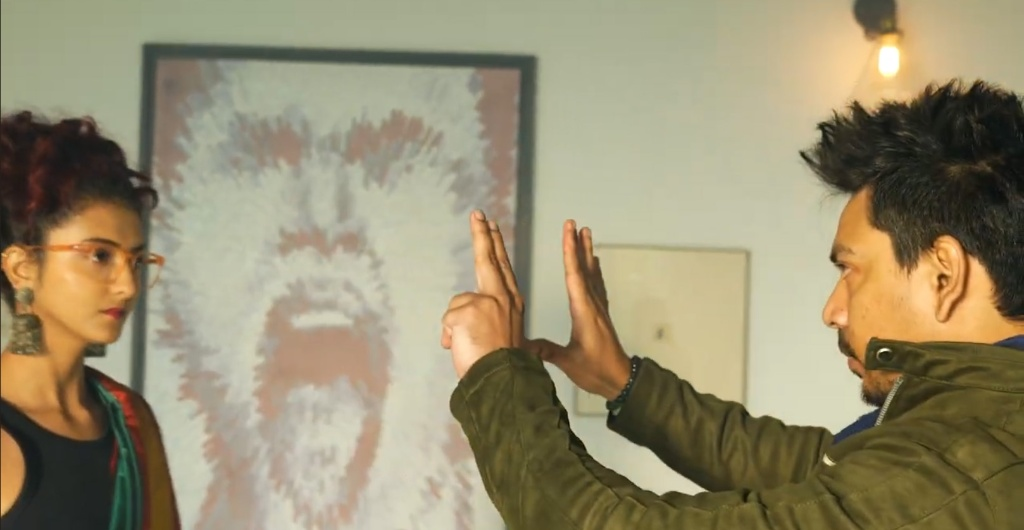
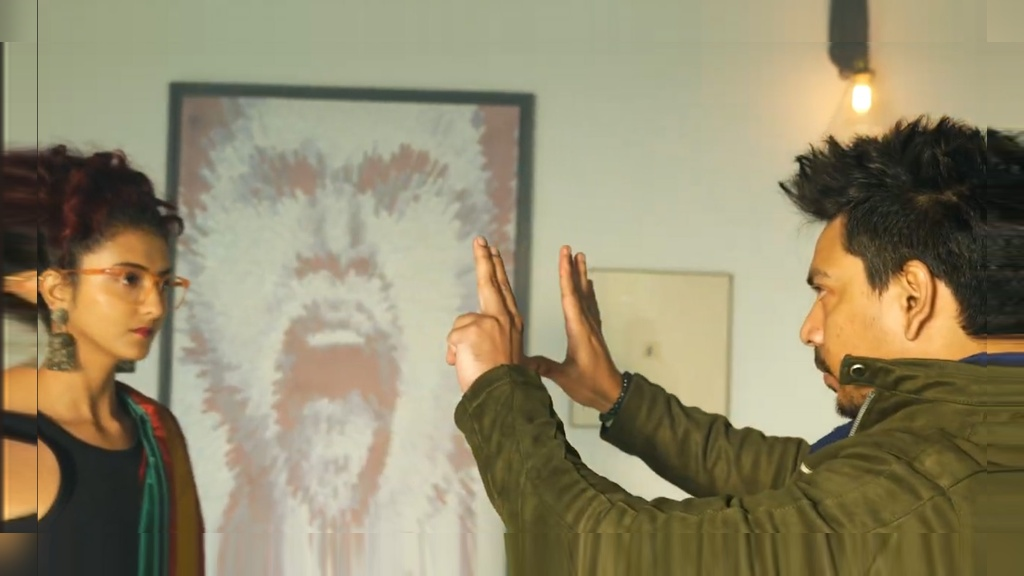
fix(about): zoom out Creative Consulting image and set 16:9 aspect ratio to display both characters fully

diff --git a/404.html b/404.html
@@ -10,7 +10,7 @@
 <link rel="preconnect" href="https://fonts.googleapis.com">
 <link rel="preconnect" href="https://fonts.gstatic.com" crossorigin>
 <link href="https://fonts.googleapis.com/css2?family=Caveat:wght@500;600&family=DM+Serif+Display:ital@0;1&family=Inter:wght@300;400;500;600;700&display=swap" rel="stylesheet">
-<link rel="stylesheet" href="/assets/css/anava.css?v=d7754cd63a">
+<link rel="stylesheet" href="/assets/css/anava.css?v=73a6066a55">
 <script>document.documentElement.classList.add('m-js');try{if(sessionStorage.getItem('anavaPT')){sessionStorage.removeItem('anavaPT');document.documentElement.classList.add('pt-in')}}catch(e){}</script>
 <script defer src="/assets/js/anava.js?v=c74d99df4b"></script>
 <script defer src="/assets/js/vendor/gsap.min.js?v=3.12.5"></script>

diff --git a/about.html b/about.html
@@ -17,7 +17,7 @@
 <link rel="preconnect" href="https://fonts.googleapis.com">
 <link rel="preconnect" href="https://fonts.gstatic.com" crossorigin>
 <link href="https://fonts.googleapis.com/css2?family=Caveat:wght@500;600&family=DM+Serif+Display:ital@0;1&family=Inter:wght@300;400;500;600;700&display=swap" rel="stylesheet">
-<link rel="stylesheet" href="assets/css/anava.css?v=d7754cd63a">
+<link rel="stylesheet" href="assets/css/anava.css?v=73a6066a55">
 <script>document.documentElement.classList.add('m-js');try{if(sessionStorage.getItem('anavaPT')){sessionStorage.removeItem('anavaPT');document.documentElement.classList.add('pt-in')}}catch(e){}</script>
 <script defer src="assets/js/anava.js?v=c74d99df4b"></script>
 <script defer src="assets/js/vendor/gsap.min.js?v=3.12.5"></script>

diff --git a/contact.html b/contact.html
@@ -17,7 +17,7 @@
 <link rel="preconnect" href="https://fonts.googleapis.com">
 <link rel="preconnect" href="https://fonts.gstatic.com" crossorigin>
 <link href="https://fonts.googleapis.com/css2?family=Caveat:wght@500;600&family=DM+Serif+Display:ital@0;1&family=Inter:wght@300;400;500;600;700&display=swap" rel="stylesheet">
-<link rel="stylesheet" href="assets/css/anava.css?v=d7754cd63a">
+<link rel="stylesheet" href="assets/css/anava.css?v=73a6066a55">
 <script>document.documentElement.classList.add('m-js');try{if(sessionStorage.getItem('anavaPT')){sessionStorage.removeItem('anavaPT');document.documentElement.classList.add('pt-in')}}catch(e){}</script>
 <script defer src="assets/js/anava.js?v=c74d99df4b"></script>
 <script defer src="assets/js/vendor/gsap.min.js?v=3.12.5"></script>

diff --git a/index.html b/index.html
@@ -17,7 +17,7 @@
 <link rel="preconnect" href="https://fonts.googleapis.com">
 <link rel="preconnect" href="https://fonts.gstatic.com" crossorigin>
 <link href="https://fonts.googleapis.com/css2?family=Caveat:wght@500;600&family=DM+Serif+Display:ital@0;1&family=Inter:wght@300;400;500;600;700&display=swap" rel="stylesheet">
-<link rel="stylesheet" href="assets/css/anava.css?v=d7754cd63a">
+<link rel="stylesheet" href="assets/css/anava.css?v=73a6066a55">
 <script>document.documentElement.classList.add('m-js');try{if(sessionStorage.getItem('anavaPT')){sessionStorage.removeItem('anavaPT');document.documentElement.classList.add('pt-in')}}catch(e){}</script>
 <script defer src="assets/js/anava.js?v=c74d99df4b"></script>
 <script defer src="assets/js/vendor/gsap.min.js?v=3.12.5"></script>

diff --git a/process.html b/process.html
@@ -17,7 +17,7 @@
 <link rel="preconnect" href="https://fonts.googleapis.com">
 <link rel="preconnect" href="https://fonts.gstatic.com" crossorigin>
 <link href="https://fonts.googleapis.com/css2?family=Caveat:wght@500;600&family=DM+Serif+Display:ital@0;1&family=Inter:wght@300;400;500;600;700&display=swap" rel="stylesheet">
-<link rel="stylesheet" href="assets/css/anava.css?v=d7754cd63a">
+<link rel="stylesheet" href="assets/css/anava.css?v=73a6066a55">
 <script>document.documentElement.classList.add('m-js');try{if(sessionStorage.getItem('anavaPT')){sessionStorage.removeItem('anavaPT');document.documentElement.classList.add('pt-in')}}catch(e){}</script>
 <script defer src="assets/js/anava.js?v=c74d99df4b"></script>
 <script defer src="assets/js/vendor/gsap.min.js?v=3.12.5"></script>

diff --git a/work.html b/work.html
@@ -17,7 +17,7 @@
 <link rel="preconnect" href="https://fonts.googleapis.com">
 <link rel="preconnect" href="https://fonts.gstatic.com" crossorigin>
 <link href="https://fonts.googleapis.com/css2?family=Caveat:wght@500;600&family=DM+Serif+Display:ital@0;1&family=Inter:wght@300;400;500;600;700&display=swap" rel="stylesheet">
-<link rel="stylesheet" href="assets/css/anava.css?v=d7754cd63a">
+<link rel="stylesheet" href="assets/css/anava.css?v=73a6066a55">
 <script>document.documentElement.classList.add('m-js');try{if(sessionStorage.getItem('anavaPT')){sessionStorage.removeItem('anavaPT');document.documentElement.classList.add('pt-in')}}catch(e){}</script>
 <script defer src="assets/js/anava.js?v=c74d99df4b"></script>
 <script defer src="assets/js/vendor/gsap.min.js?v=3.12.5"></script>

diff --git a/assets/css/anava.css b/assets/css/anava.css
@@ -3609,7 +3609,7 @@ html.hero-go .hero-cine .hl-1 em{
 .caps .svc{background:none;border:0;border-radius:0;overflow:visible;cursor:default}
 .caps .svc[data-lightbox]{cursor:pointer}
 .caps .svc:hover{transform:none}
-.caps .svc-media{border-radius:4px;aspect-ratio:16/10}
+.caps .svc-media{border-radius:4px;aspect-ratio:16/9}
 .caps .svc-body{padding:14px 0 0;border-top:0}
 .caps .svc-body h4{font-size:1.02rem}
 .caps .svc-body p{font-size:.86rem;max-width:40ch}
